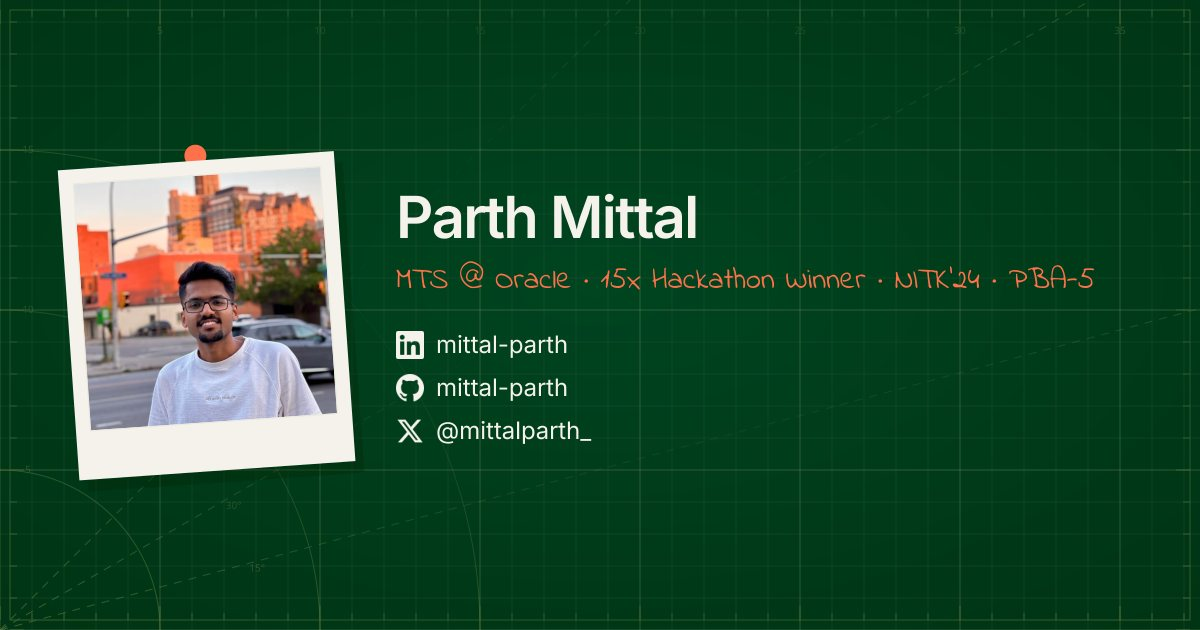
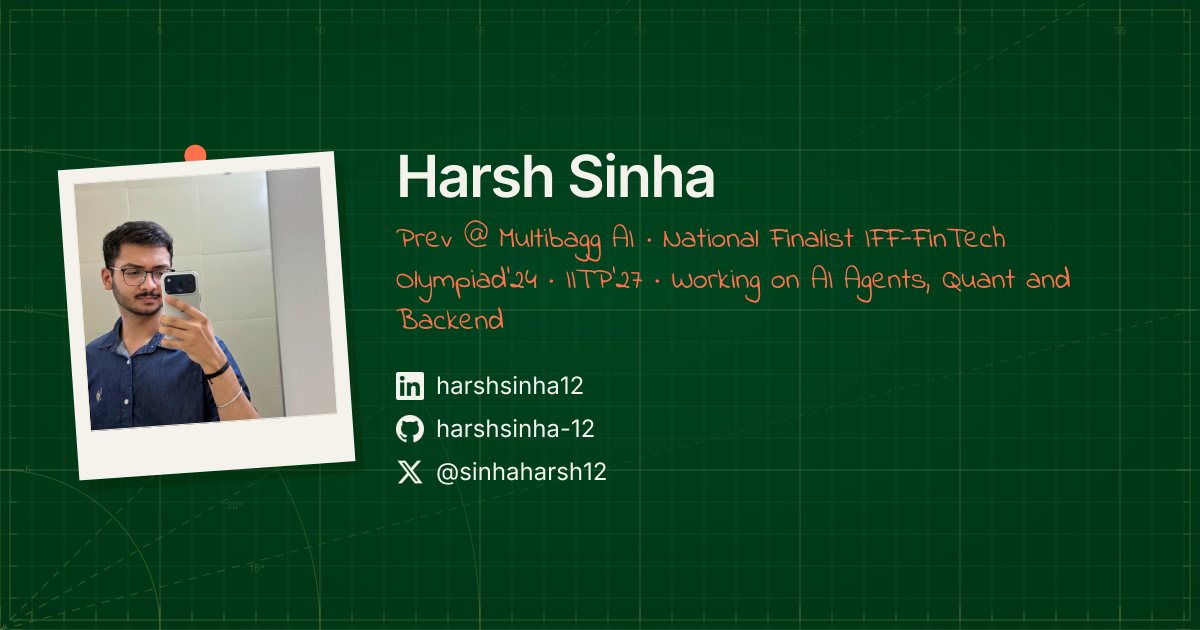
feat: Update portfolio and social media links for Harsh Sinha
- Replaced outdated social media handles and URLs in the layout and portfolio data.
- Updated the creator tag in metadata to reflect the new handle.
- Changed educational institution details to accurately represent current affiliations.
- Updated the OG image to enhance branding consistency.

Changed region(s): [[0.3083, 0.2413, 0.925, 0.6333], [0.0617, 0.2413, 0.2775, 0.6937], [0.3083, 0.6635, 0.5242, 0.7841]]

diff --git a/src/app/layout.tsx b/src/app/layout.tsx
@@ -61,7 +61,7 @@ export const metadata: Metadata = {
     card: "summary_large_image",
     title: siteConfig.title,
     description: siteConfig.description,
-    creator: "@mittalparth_",
+    creator: "@sinhaharsh12",
     images: ["/og.jpg"],
   },
   robots: {
@@ -78,20 +78,20 @@ const personJsonLd = {
   worksFor: {
     "@type": "Organization",
     name: "Multibagg AI",
-    url: "https://www.oracle.com",
+    url: "https://www.multibagg.ai",
   },
   alumniOf: [
     {
       "@type": "CollegeOrUniversity",
-      name: "National Institute of Technology Karnataka",
-      url: "https://www.nitk.ac.in/",
+      name: "Indian Institute of Technology Patna",
+      url: "https://www.iitp.ac.in/",
     },
   ],
   url: siteUrl,
   sameAs: [
-    "https://www.linkedin.com/in/mittal-parth",
-    "https://github.com/mittal-parth",
-    "https://www.twitter.com/mittalparth_",
+    "https://www.linkedin.com/in/harshsinha12",
+    "https://github.com/harshsinha-12",
+    "https://x.com/sinhaharsh12",
   ],
   image: `${siteUrl}/assets/profile-pic.jpg`,
 };

diff --git a/src/data/portfolio.ts b/src/data/portfolio.ts
@@ -5,8 +5,8 @@ export const siteConfig = {
   name: "Harsh Sinha",
   title: "Harsh Sinha | AI Engineer",
   description:
-    "Member of Technical Staff at Oracle. 13x hackathon winner. Builder of Khoj, Echo, and open-source tools.",
-    url: "https://mittalparth.dev",
+    "AI Engineer · Prev Founder's Office @ Multibagg AI · National Finalist IFF-FinTech Olympiad '24 · IIT Patna '27.",
+  url: "https://harsh-portfolio-two-sigma.vercel.app/",
   githubUsername: "harshsinha-12",
   role: "Prev Founder's Office and AI Engineer",
   tagline: "Prev  @ Multibagg AI · National Finalist IFF-FinTech Olympiad’24 · IITP'27 · Working on AI Agents, Quant and Backend",
